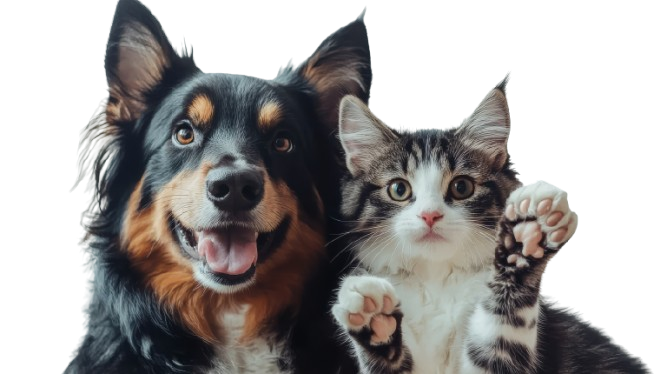
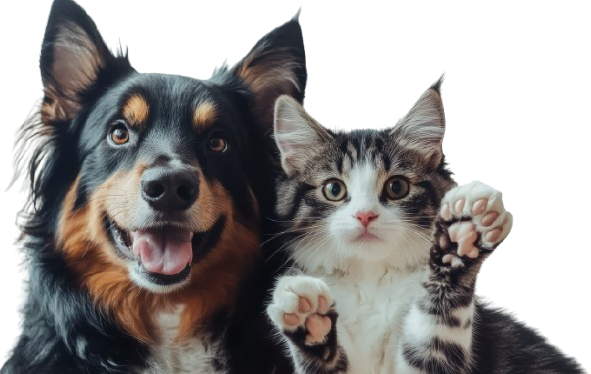
updateMobile2

diff --git a/src/app/components/espace-proprietaire/espace-proprietaire.component.html b/src/app/components/espace-proprietaire/espace-proprietaire.component.html
@@ -48,7 +48,7 @@
         </h2>
           <p class="hero-text-fixed text-slate-600 mb-8 max-w-lg mx-auto">
             <ng-container *ngIf="selectedSousCategory === 'Aliment'">
-Notre gamme repose sur un équilibre nutritionnel faible en glucides et riche en protéines adapté aux besoins de votre Chien, carnivore depuis toujours !            </ng-container>
+            Notre gamme repose sur un équilibre nutritionnel faible en glucides et riche en protéines adapté aux besoins de votre Chien, carnivore depuis toujours !            </ng-container>
             <ng-container *ngIf="selectedSousCategory === 'Complément'">
               Découvrez notre gamme complète de compléments alimentaires pour chats, 100% fabriquée en France et développée par des vétérinaires.
             </ng-container>
@@ -255,10 +255,11 @@ besoins de votre Chien, carnivore depuis toujours !
             </div>
 
             <!-- Aliment Image -->
-            <div *ngIf="selectedSousCategory === 'Aliment'" class="relative transform transition-transform duration-500">
+            <div *ngIf="selectedSousCategory === 'Aliment'" class="relative transform transition-transform duration-500 md:translate-x-28">
               <img src="assets/images/Dog.png" 
                 alt="Chien"
-                class="w-full max-w-[320px] md:max-w-[680px] h-auto object-cover transform hover:scale-105 transition-transform duration-700 drop-shadow-2xl mx-auto">
+                style="width: 500px; max-width: 900%;"
+                class="h-auto object-cover transform hover:scale-105 transition-transform duration-700 drop-shadow-2xl">
             </div>
 
             <!-- Complément Image -->
@@ -711,18 +712,20 @@ besoins de votre Chien, carnivore depuis toujours !
         <!-- Section 1: Comment choisir -->
       <div class="rounded-2xl p-8 md:p-12 mb-8 shadow-lg w-full" [ngClass]="selectedCategory === 'Chat' ? 'bg-gradient-to-br from-green-50 to-emerald-50' : 'bg-gradient-to-br from-purple-50 to-pink-50'">
       <div class="mx-auto">
-        <div class="flex items-start gap-6">
+        <div class="flex items-start gap-4 md:gap-6 mb-4">
          <div [ngClass]="selectedCategory === 'Chat' ? 'bg-[#74C375]' : selectedCategory === 'Chien' ? 'bg-[#a01867]' : 'bg-blue-600'" class="flex-shrink-0 w-12 h-12 rounded-full flex items-center justify-center">
             <svg class="w-7 h-7 text-white" fill="none" stroke="currentColor" viewBox="0 0 24 24">
               <path stroke-linecap="round" stroke-linejoin="round" stroke-width="2" d="M8.228 9c.549-1.165 2.03-2 3.772-2 2.21 0 4 1.343 4 3 0 1.4-1.278 2.575-3.006 2.907-.542.104-.994.54-.994 1.093m0 3h.01M21 12a9 9 0 11-18 0 9 9 0 0118 0z"></path>
             </svg>
           </div>
-          <div class="flex-1 ">
-            <h3 class="text-2xl md:text-2xl font-bold text-gray-900 mb-4" style="color: #42636E; line-height: 1.3;">
-              <span *ngIf="selectedCategory === 'Chat'">POURQUOI L’ALIMENTATION DE VOTRE CHAT MÉRITE UNE ATTENTION PARTICULIÈRE ? </span>
+          <div class="flex-1">
+            <h3 class="subheading-fixed font-bold" style="color: #42636E; line-height: 1.3;">
+              <span *ngIf="selectedCategory === 'Chat'" >POURQUOI L’ALIMENTATION DE VOTRE CHAT MÉRITE UNE ATTENTION PARTICULIÈRE ? </span>
               <span *ngIf="selectedCategory === 'Chien'" >POURQUOI CHOISIR LA MEILLEURE ALIMENTATION POUR VOTRE CHIEN ? </span>
             </h3>
-            <p class="text-lg text-gray-700 leading-relaxed text-justify text-justify" *ngIf="selectedCategory === 'Chat'">
+          </div>
+        </div>
+        <p class="text-lg text-gray-700 leading-relaxed text-justify mt-4" *ngIf="selectedCategory === 'Chat'">
               Une nutrition de qualité supérieure doit impérativement répondre aux besoins physiologiques spécifiques de 
               carnivore strict de votre compagnon. Contrairement à ce que l'on pense, toutes les croquettes pour chat ne se 
               valent pas : leur composition et leur valeur nutritionnelle font toute la différence. L'alimentation influence de 
@@ -730,14 +733,11 @@ besoins de votre Chien, carnivore depuis toujours !
               comportementaux de votre félin. Comprendre ces mécanismes vous permettra de faire des choix éclairés pour 
               optimiser la longévité et la vitalité de votre chat.
             </p>
-            <p class="text-fixed text-gray-700 break-words" *ngIf="selectedCategory === 'Chien'">
+        <p class="text-lg text-gray-700 leading-relaxed text-justify mt-4" *ngIf="selectedCategory === 'Chien'">
               Le choix d'une alimentation dépend de plusieurs critères : <span class="font-semibold">Race et taille</span> : un yorkshire n'a pas les mêmes besoins qu'un berger allemand. <span class="font-semibold">Mode de vie</span> : chien urbain ou très actif en extérieur. <span class="font-semibold">Âge</span> : chiot, chien adulte ou senior. <span class="font-semibold">Physiologie</span> : stérilisé, gestante ou allaitante. <span class="font-semibold">État de santé</span> : problèmes articulaires, digestion sensible, surpoids.
             </p>
-          </div>
-        </div>
       </div>
     </div>
-
     <!-- Section 2: Points clés -->
 
 <div class="bg-white rounded-2xl p-8 md:p-12 mb-8 shadow-lg border-l-4 w-full" [ngClass]="selectedCategory === 'Chat' ? 'border-[#74C375]' : 'border-[#a01867]'">      <div class="mx-auto text-justify">
@@ -1019,8 +1019,8 @@ besoins de votre Chien, carnivore depuis toujours !
         <div class="bg-gradient-to-br from-gray-50 to-white rounded-2xl shadow-xl p-6 md:p-8 border-t-4 max-w-5xl mx-auto" [ngClass]="selectedCategory === 'Chat' ? 'border-[#74C375]' : 'border-[#a01867]'" >
           
           <!-- Header with Icon -->
-          <div class="flex flex-col md:flex-row items-center gap-3 text-center md:text-left" style="margin-bottom: 2rem;">
-            <div [ngClass]="selectedCategory === 'Chat' ? 'bg-[#74C375]' : 'bg-[#a01867]'" class="w-12 h-12 rounded-xl flex items-center justify-center flex-shrink-0 shadow-lg mx-auto md:mx-0">
+          <div class="flex items-center gap-3 text-left" style="margin-bottom: 2rem;">
+            <div [ngClass]="selectedCategory === 'Chat' ? 'bg-[#74C375]' : 'bg-[#a01867]'" class="w-12 h-12 rounded-xl flex items-center justify-center flex-shrink-0 shadow-lg">
               <svg class="w-6 h-6 text-white" fill="none" stroke="currentColor" viewBox="0 0 24 24">
                 <path stroke-linecap="round" stroke-linejoin="round" stroke-width="2" d="M12 6.253v13m0-13C10.832 5.477 9.246 5 7.5 5S4.168 5.477 3 6.253v13C4.168 18.477 5.754 18 7.5 18s3.332.477 4.5 1.253m0-13C13.168 5.477 14.754 5 16.5 5c1.747 0 3.332.477 4.5 1.253v13C19.832 18.477 18.247 18 16.5 18c-1.746 0-3.332.477-4.5 1.253"></path>
               </svg>

diff --git a/scripts/fix-section.js b/scripts/fix-section.js
@@ -1,0 +1,56 @@
+const fs = require('fs');
+const path = 'src/app/components/espace-proprietaire/espace-proprietaire.component.html';
+let content = fs.readFileSync(path, 'utf8');
+
+const oldBlock = `      <div class="mx-auto">
+        <div class="flex flex-col md:flex-row items-start gap-4 md:gap-6">
+         <div [ngClass]="selectedCategory === 'Chat' ? 'bg-[#74C375]' : selectedCategory === 'Chien' ? 'bg-[#a01867]' : 'bg-blue-600'" class="flex-shrink-0 w-12 h-12 rounded-full flex items-center justify-center mx-auto md:mx-0">
+            <svg class="w-7 h-7 text-white" fill="none" stroke="currentColor" viewBox="0 0 24 24">
+              <path stroke-linecap="round" stroke-linejoin="round" stroke-width="2" d="M8.228 9c.549-1.165 2.03-2 3.772-2 2.21 0 4 1.343 4 3 0 1.4-1.278 2.575-3.006 2.907-.542.104-.994.54-.994 1.093m0 3h.01M21 12a9 9 0 11-18 0 9 9 0 0118 0z"></path>
+            </svg>
+          </div>
+          <div class="flex-1 ">
+            <h3 class="subheading-fixed font-bold mb-4" style="color: #42636E; line-height: 1.3;">`;
+
+const newBlock = `      <div class="mx-auto">
+        <!-- Icon + Title row -->
+        <div class="flex items-start gap-4 md:gap-6 mb-4">
+          <div [ngClass]="selectedCategory === 'Chat' ? 'bg-[#74C375]' : selectedCategory === 'Chien' ? 'bg-[#a01867]' : 'bg-blue-600'" class="flex-shrink-0 w-12 h-12 rounded-full flex items-center justify-center">
+            <svg class="w-7 h-7 text-white" fill="none" stroke="currentColor" viewBox="0 0 24 24">
+              <path stroke-linecap="round" stroke-linejoin="round" stroke-width="2" d="M8.228 9c.549-1.165 2.03-2 3.772-2 2.21 0 4 1.343 4 3 0 1.4-1.278 2.575-3.006 2.907-.542.104-.994.54-.994 1.093m0 3h.01M21 12a9 9 0 11-18 0 9 9 0 0118 0z"></path>
+            </svg>
+          </div>
+          <div class="flex-1">
+            <h3 class="subheading-fixed font-bold" style="color: #42636E; line-height: 1.3;">`;
+
+if (content.includes(oldBlock)) {
+  content = content.replace(oldBlock, newBlock);
+  // Also close the flex row after h3 and move paragraphs outside
+  const oldClose = `            </h3>
+            <p class="text-lg text-gray-700 leading-relaxed text-justify" *ngIf="selectedCategory === 'Chat'">`;
+  const newClose = `            </h3>
+          </div>
+        </div>
+        <!-- Paragraph full width below -->
+        <p class="text-lg text-gray-700 leading-relaxed text-justify" *ngIf="selectedCategory === 'Chat'">`;
+  content = content.replace(oldClose, newClose);
+
+  const oldChienClose = `            </p>
+          </div>
+        </div>
+      </div>
+    </div>
+
+    <!-- Section 2: Points clés -->`;
+  const newChienClose = `        </p>
+      </div>
+    </div>
+
+    <!-- Section 2: Points clés -->`;
+  content = content.replace(oldChienClose, newChienClose);
+
+  fs.writeFileSync(path, content, 'utf8');
+  console.log('Done');
+} else {
+  console.log('Block not found');
+}

diff --git a/src/app/components/espace-proprietaire/espace-proprietaire.component.scss b/src/app/components/espace-proprietaire/espace-proprietaire.component.scss
@@ -3,7 +3,7 @@
 :host {
   display: block;
   min-height: 100vh;
-  font-family: 'Inter', -apple-system, BlinkMacSystemFont, sans-serif;
+  font-family: 'Geometria', -apple-system, BlinkMacSystemFont, 'Segoe UI', sans-serif;
 }
 
 
@@ -582,23 +582,42 @@ h2 {
 .text-fixed {
   font-size: 16px !important;
   line-height: 1.5 !important;
+  font-family: 'Geometria', -apple-system, BlinkMacSystemFont, 'Segoe UI', sans-serif !important;
+
+  ::ng-deep span, span {
+    font-family: 'Geometria', -apple-system, BlinkMacSystemFont, 'Segoe UI', sans-serif !important;
+    font-size: inherit !important;
+  }
 }
 
 .heading-fixed {
   font-size: 32px !important;
   line-height: 1.2 !important;
+  font-weight: 700 !important;
   
   @media (max-width: 768px) {
-    font-size: 24px !important;
+    font-size: 28px !important;
   }
 }
 
 .subheading-fixed {
   font-size: 24px !important;
   line-height: 1.3 !important;
+  font-weight: 700 !important;
+
+  ::ng-deep span, span {
+    font-size: 24px !important;
+    font-weight: 700 !important;
+    font-family: 'Geometria', -apple-system, BlinkMacSystemFont, 'Segoe UI', sans-serif !important;
+    line-height: 1.3 !important;
+  }
   
   @media (max-width: 768px) {
-    font-size: 20px !important;
+    font-size: 28px !important;
+
+    ::ng-deep span, span {
+      font-size: 28px !important;
+    }
   }
 }
 
@@ -905,5 +924,15 @@ body {
   .py-12, .py-16, .py-20 {
     padding-top: 2rem !important;
     padding-bottom: 2rem !important;
+  }
+}
+
+// Force subheading spans to match h3 size on mobile
+@media (max-width: 768px) {
+  :host ::ng-deep .subheading-fixed span {
+    font-size: 28px !important;
+    font-weight: 700 !important;
+    line-height: 1.3 !important;
+    font-family: 'Geometria', -apple-system, BlinkMacSystemFont, 'Segoe UI', sans-serif !important;
   }
 }

diff --git a/src/app/components/home/home.component.html b/src/app/components/home/home.component.html
@@ -46,8 +46,8 @@
 
           <!-- Image -->
           <img src="assets/images/catDog2.png" alt="Chien et Chat"
-            class="relative z-10 w-full max-w-[320px] md:max-w-none h-auto object-contain mx-auto"
-            style="width: 150%;"
+            class="relative z-10 h-auto object-contain block"
+            style="width: 2 00%; max-width: 500px; margin: 0 auto;"
             [style.transform]="imageTransform">
         </div>
       </div>
@@ -87,6 +87,9 @@
           <path d="M9.049 2.927c.3-.921 1.603-.921 1.902 0l1.07 3.292a1 1 0 00.95.69h3.462c.969 0 1.371 1.24.588 1.81l-2.8 2.034a1 1 0 00-.364 1.118l1.07 3.292c.3.921-.755 1.688-1.54 1.118l-2.8-2.034a1 1 0 00-1.175 0l-2.8 2.034c-.784.57-1.838-.197-1.539-1.118l1.07-3.292a1 1 0 00-.364-1.118L2.98 8.72c-.783-.57-.38-1.81.588-1.81h3.461a1 1 0 00.951-.69l1.07-3.292z"></path>
         </svg>
         <span class="text-lg font-bold text-gray-700">TOUS CE DONT VOUS AVEZ BESOIN</span>
+        <svg class="w-8 h-8 text-yellow-500" fill="currentColor" viewBox="0 0 20 20">
+          <path d="M9.049 2.927c.3-.921 1.603-.921 1.902 0l1.07 3.292a1 1 0 00.95.69h3.462c.969 0 1.371 1.24.588 1.81l-2.8 2.034a1 1 0 00-.364 1.118l1.07 3.292c.3.921-.755 1.688-1.54 1.118l-2.8-2.034a1 1 0 00-1.175 0l-2.8 2.034c-.784.57-1.838-.197-1.539-1.118l1.07-3.292a1 1 0 00-.364-1.118L2.98 8.72c-.783-.57-.38-1.81.588-1.81h3.461a1 1 0 00.951-.69l1.07-3.292z"></path>
+        </svg>
       </div>
       <h2 class="text-2xl md:text-3xl font-bold mb-6" style="color: #2c3e50;">
         BÉNÉFICIER DE LA QUALITÉ, DES CONSEILS ET DE L'ACCOMPAGNEMENT VÉTÉRINAIRE ?

diff --git a/src/app/components/ou-trouver-nos-produits/ou-trouver-nos-produits.component.ts b/src/app/components/ou-trouver-nos-produits/ou-trouver-nos-produits.component.ts
@@ -100,6 +100,8 @@ export class OuTrouverNosProduitsComponent implements OnInit, AfterViewInit {
 
       L.tileLayer('https://{s}.tile.openstreetmap.org/{z}/{x}/{y}.png', {
         attribution: '© OpenStreetMap contributors',
+    //  L.tileLayer('https://{s}.basemaps.cartocdn.com/rastertiles/voyager/{z}/{x}/{y}{r}.png', {
+      //  attribution: '© <a href="https://www.openstreetmap.org/copyright">OpenStreetMap</a> contributors © <a href="https://carto.com/">CARTO</a>',
         maxZoom: 19
       }).addTo(this.map);
     }
@@ -431,8 +433,8 @@ export class OuTrouverNosProduitsComponent implements OnInit, AfterViewInit {
       if (!this.modalMap) {
         this.modalMap = L.map('modalMap').setView([36.8, 10.2], 10);
 
-        L.tileLayer('https://{s}.tile.openstreetmap.org/{z}/{x}/{y}.png', {
-          attribution: '© OpenStreetMap contributors',
+        L.tileLayer('https://{s}.basemaps.cartocdn.com/rastertiles/voyager/{z}/{x}/{y}{r}.png', {
+          attribution: '© <a href="https://www.openstreetmap.org/copyright">OpenStreetMap</a> contributors © <a href="https://carto.com/">CARTO</a>',
           maxZoom: 19
         }).addTo(this.modalMap);
 

diff --git a/src/app/components/home/home.component.scss b/src/app/components/home/home.component.scss
@@ -196,11 +196,33 @@
 .hero-image-wrapper-interactive {
   position: relative;
   width: 100%;
-  max-width: 500px;
   cursor: pointer;
   overflow: visible;
-  padding: 40px; // Extra space for movement
-  margin: -40px; // Compensate padding
+
+  // Desktop: allow movement padding
+  @media (min-width: 769px) {
+    max-width: 500px;
+    padding: 40px;
+    margin: -40px;
+  }
+
+  // Mobile: fully centered, no offset
+  @media (max-width: 768px) {
+    padding: 0 !important;
+    margin: 0 !important;
+    max-width: 100% !important;
+    display: flex !important;
+    justify-content: center !important;
+    align-items: center !important;
+
+    img {
+      margin-left: auto !important;
+      margin-right: auto !important;
+      display: block !important;
+      max-width: 320px !important;
+      width: 100% !important;
+    }
+  }
   
   .hero-image-chase {
     width: 100%;
